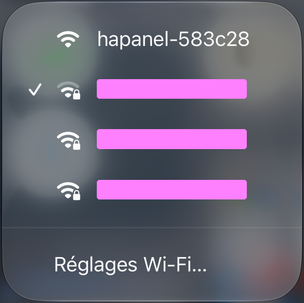
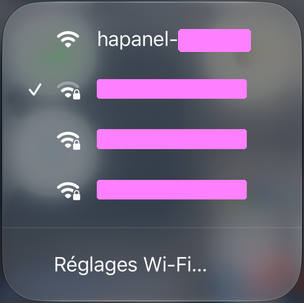
T02 cadre (D052) : doc utilisateur sans element personnel, binaire public seul, francais
- D052 : nettoyage de la doc utilisateur seulement, adoption par le binaire
  public, documentation en francais ; journal de developpement inchange
- Noms reels de modules remplaces par hapanel-1a2b3c ; suffixe masque dans la
  capture 11 d'INSTALLATION.md ; chemin du poste retire de START_HERE.md
- README : le reste de docs/ est le journal d'une installation reelle
- 04 : regle « Documentation publique » ; 00_CONTEXT : 4,3" validee au banc (Q)
- Cahier : partie R (R1, R2), bloque docs/t02-projet-publiable

Changed region(s): [[0.5625, 0.0891, 0.8289, 0.1782]]

diff --git a/docs/CAHIER_DE_TESTS.md b/docs/CAHIER_DE_TESTS.md
@@ -75,6 +75,7 @@ aucun. Chaque ligne se coche **OK** ou **KO** ; en cas de KO, noter ce qui a ét
 | J | Déploiement public (D039) ; guide d'installation (J9, J10, J14) | `feature/poc-deploiement` (fusionnée) ; J9, J10, J14 : `docs/guide-installation` (fusionnée) |
 | L | Mise à jour signalée par la barre d'état et la LED (D045) | `feature/maj-icone` (fusionnée) ; L11 sur la Release `v0.10.0` |
 | M | Adresse IP sur la page À propos | `feature/maj-icone` (fusionnée) |
+| R | Documentation publique sans élément personnel (D052) | `docs/t02-projet-publiable` |
 | 7 novembre 2026 | `9b78597` (S028, USB) | K1, K2, K3 | Écran et couleurs OK (contrôleur ST7789V, sans inversion) ; tactile : x brut décroît de gauche à droite (3605 à 449), y de 419 à 3662. Premier téléversement impossible avec le premier câble USB-C (aucune donnée reçue) ; OK avec un autre câble | Calibrage et `mirror_x` reportés ; K4 sur le binaire suivant |
 | 7 novembre 2026 | `174aa99` (S028, USB) | K4 à K11 | Tout OK ; K5 : glissière Éteint / Chauffage capricieuse au doigt sur dalle résistive, boutons fiables. Mémoire libre 153 Ko, plus grand bloc 96 Ko. Remarque du propriétaire : avoir à configurer le blueprint du message d'accueil en plus de celui du module n'est pas pratique (TODO rang 1) | **Partie K validée**, fusion dans `main` (accord du propriétaire) ; glissière : TODO T04 |
 | 7 novembre 2026 | `745126b` (blueprint, branche) | B10 à B19 | Tout OK : migration, module sans section, même texte sur deux modules, message unique, entité désactivée, météo, plage horaire ; B3 refait (B13) | **Fusion de `feature/accueil-blueprint-module` dans `main`**, accord du propriétaire |
@@ -399,3 +400,12 @@ dans le message de livraison). Q10 et Q11 se font après la publication de la Re
 | Q10 | Après la publication : sur la 4,3" en binaire de la branche, Menu, tuile « Mise à jour », Installer | Installation depuis `manifest-jc4827w543.json`, redémarrage dans la version publiée | — (à la publication) | OK 9 nov. par HA (`v0.11.0`) : installé depuis `manifest-jc4827w543.json`, redémarré en 0.11.0. Depuis l'écran : à la prochaine Release |
 | Q11 | Après la publication : Release | Neuf fichiers (trois par carte) ; dans `manifest-jc4827w543.json`, `"chipFamily": "ESP32-S3"` ; dans les deux autres, `"ESP32"` | — (à la publication) | OK 9 nov. (`v0.11.0`, vérifié par l'agent) : 9 fichiers ; `ESP32-S3` pour la 4,3", `ESP32` pour les deux autres ; résumé de `NOUVEAUTES.md` dans les trois |
 | Q12 | Binaires S024C et S028 de la branche (bloc `esp32` déplacé) : un module de chaque, après la publication | Mise à jour depuis l'écran réussie, fonctions inchangées | — (à la publication) | OK 9 nov. par HA (`v0.11.0`) : cuisine, séjour (S024C), salle de bain (S028), fonctions inchangées ; cuisine : tactile muet après la mise à jour, revenu après un redémarrage (T17). Depuis l'écran : à la prochaine Release |
+
+## R — Documentation publique sans élément personnel (D052)
+
+Sur GitHub, branche `docs/t02-projet-publiable` choisie dans le menu des branches.
+
+| N° | Action | Attendu | Bloque la fusion de | OK / KO |
+|---|---|---|---|---|
+| R1 | Lire le README, puis `INSTALLATION.md`, `CONFIGURATION.md` et `UTILISATION.md` | Aucun nom réel de module (seulement `hapanel-1a2b3c` en exemple), aucune de vos pièces, aucun nom de réseau ; capture 11 d'`INSTALLATION.md` : suffixe du réseau du module masqué | `docs/t02-projet-publiable` | |
+| R2 | README, paragraphe sur le journal de développement | Clair pour un visiteur : il comprend que le reste de `docs/` décrit votre installation à titre d'exemple | `docs/t02-projet-publiable` | |

diff --git a/docs/codex/02_DECISIONS.md b/docs/codex/02_DECISIONS.md
@@ -1282,3 +1282,34 @@ qui cite la précédente.
     des checkpoints laissées telles quelles (archives datées).
 - Conséquences : prochain numéro `T16` ; modèle de checkpoint, G14 et `AGENTS.md`
   citent les sujets par leur numéro.
+
+## D052 — Projet publiable : cadrage (TODO T02)
+
+- Date : 9 novembre 2026 — Statut : choisi par le propriétaire (HAP-R002 :
+  « Q1 - A, Q2 - A, Q3 - Fr »), appliqué sur `docs/t02-projet-publiable`.
+- Contexte : D038 demande de relire la documentation pour en retirer le personnel,
+  et de cadrer l'adoption par d'autres utilisateurs. Inventaire du 9 novembre 2026 :
+  les pages pour l'utilisateur sont presque neutres (restaient les noms réels de
+  deux modules, fin de l'adresse MAC, en exemple, et dans une capture) ; le
+  personnel (pièces, modules, nœud `clim-parents`, réseau de bus, installation de
+  HA, chemin du poste) est dans le journal de développement. Le dépôt est déjà
+  public : l'historique Git garde tout ce qui a été écrit.
+- Décision :
+  - **nettoyage de la documentation pour l'utilisateur seulement** (option A) :
+    noms de modules réels remplacés par `hapanel-1a2b3c`, suffixe masqué dans la
+    capture 11 d'`INSTALLATION.md`, chemin du poste retiré de `START_HERE.md` ; le
+    README présente le reste de `docs/` comme le journal de développement d'une
+    installation réelle ; règle durable dans `04_DEVELOPMENT_RULES.md` ;
+  - le journal de développement reste tel quel ; pas de réécriture de l'historique
+    Git ;
+  - **adoption par le binaire public seulement** (option A) : le guide
+    d'installation (D039, D041) est le seul parcours documenté pour le public ; la
+    compilation reste possible (`secrets.example.yaml`, `05_BUILD_AND_TEST.md`) mais
+    n'a pas de guide pour débutant ;
+  - **documentation en français seulement**.
+- Options écartées : nettoyer aussi le journal de développement (gros travail, gain
+  nul tant que l'historique Git le garde) ; le déplacer dans un dépôt privé (deux
+  sources de vérité) ; guide « je compile moi-même » (à tester sur un poste vierge,
+  `tools/build.ps1` réservé à Windows) ; traduction anglaise (double maintenance).
+  Chacune peut être rouverte par une nouvelle décision.
+- Conséquences : T02 terminé à la fusion ; reste de D038 : page d'installation (T03).

diff --git a/docs/codex/00_CONTEXT.md b/docs/codex/00_CONTEXT.md
@@ -52,7 +52,7 @@ Home Assistant qu'il lit et les actions qu'il déclenche.
 | Alimentation | Bloc secteur externe 1 A validé au banc ; port USB du PC insuffisant (R7) |
 | Montage mural | À définir |
 | Autre carte | ESP32-2432S028 à deux prises USB (2,8", contrôleur ST7789V, tactile résistif XPT2046, rétroéclairage GPIO21) : `packages/hardware_2432s028.yaml`, validée au banc le 7 novembre 2026 (cahier K ; mémoire libre 153 Ko, plus grand bloc 96 Ko) ; binaire public `hapanel_2432s028_public.yaml` (D041), validé en `v0.9.0` le 7 novembre 2026 (cahier K12 à K15) |
-| Carte 4,3" | Guition JC4827W543C_I (ESP32-S3, 4 Mo de flash, 8 Mo de PSRAM, écran NV3041A 480 × 272 en QSPI, tactile GT911, rétroéclairage GPIO1, ni LED ni LDR), brochage validé par AquaLook le 27 août 2026 : `packages/hardware_jc4827w543.yaml`, binaire public `hapanel_jc4827w543_public.yaml`, en portrait provisoire (D049) ; à valider au banc (cahier Q) |
+| Carte 4,3" | Guition JC4827W543C_I (ESP32-S3, 4 Mo de flash, 8 Mo de PSRAM, écran NV3041A 480 × 272 en QSPI, tactile GT911, rétroéclairage GPIO1, ni LED ni LDR), brochage validé par AquaLook le 27 août 2026 : `packages/hardware_jc4827w543.yaml`, binaire public `hapanel_jc4827w543_public.yaml`, en portrait provisoire (D049) ; validée au banc le 9 novembre 2026 (cahier Q1 à Q9), en essai dans la maison depuis 0.11.0 ; pages en paysage : TODO T04 |
 
 ## Environnement de développement
 

diff --git a/docs/CONFIGURATION.md b/docs/CONFIGURATION.md
@@ -35,8 +35,8 @@ Vérifiez que Home Assistant contient déjà les entités que le module afficher
 
 1. Ouvrez Home Assistant, puis **Paramètres › Appareils et services**.
 2. En haut, parmi les appareils découverts, le module apparaît sous le nom
-   **HAPanel** suivi de six caractères, par exemple « HAPanel 583c28
-   (hapanel-583c28) » : cliquez sur **Ajouter**. Si vous avez déjà un appareil
+   **HAPanel** suivi de six caractères, par exemple « HAPanel 1a2b3c
+   (hapanel-1a2b3c) » : cliquez sur **Ajouter**. Si vous avez déjà un appareil
    ESPHome, il peut aussi apparaître en ouvrant **ESPHome**, rubrique
    **Découvertes** (capture ci-dessous).
 
@@ -309,7 +309,7 @@ déclenche plus jamais. Le blueprint
 
 1. **Affichage :** **Outils de développement › Actions**, action
    `esphome.<nom du module>_message_accueil` (par exemple
-   `esphome.hapanel_583c28_message_accueil`), champ `texte` rempli : le message
+   `esphome.hapanel_1a2b3c_message_accueil`), champ `texte` rempli : le message
    s'affiche aussitôt. « Exécuter les actions » de l'automatisation n'envoie pas le
    message : sans déclencheur, elle envoie les valeurs du module.
 2. **Chaîne complète :** régler la période à 5 minutes, laisser les déclencheurs au

diff --git a/docs/technique/hapanel.md b/docs/technique/hapanel.md
@@ -37,7 +37,7 @@ le banc : il n'est jamais flashé sur un module de la maison.
 
 | Substitution | Valeur | Utilisée par | Rôle |
 |---|---|---|---|
-| `node_name` | `hapanel` | `base.yaml` (`esphome.name`) | Nom du nœud ESPHome. ESPHome y ajoute la fin de l'adresse MAC : `hapanel-a85bfc` (D012). |
+| `node_name` | `hapanel` | `base.yaml` (`esphome.name`) | Nom du nœud ESPHome. ESPHome y ajoute la fin de l'adresse MAC : `hapanel-1a2b3c` (D012). |
 | `friendly_name` | `HAPanel` | `base.yaml` | Nom de l'appareil affiché dans Home Assistant. |
 | `version` | `0.0.0-non-injectee` | `base.yaml`, `lvgl.yaml` (page À propos) | Version du logiciel. Remplacée par le contenu du fichier `VERSION`. |
 | `git_sha` | `inconnu` | `base.yaml`, `lvgl.yaml` | Commit compilé. Remplacé par le SHA court de Git, suivi de `+modif` si des fichiers ne sont pas commités. |

diff --git a/docs/codex/04_DEVELOPMENT_RULES.md b/docs/codex/04_DEVELOPMENT_RULES.md
@@ -89,6 +89,18 @@ du C++ au YAML.
 - Pas de `web_server` ni de point d'accès de secours sans décision et ligne
   au registre des risques.
 
+## Documentation publique
+
+- Pages pour l'utilisateur (README, `INSTALLATION.md`, `CONFIGURATION.md`,
+  `UTILISATION.md`, `ARCHITECTURE.md`, `docs/technique/`) : aucun nom réel de
+  module, de pièce, de réseau ni de chemin du poste du propriétaire (D052) ;
+  nom de module d'exemple : `hapanel-1a2b3c`. Captures : masquer aussi le suffixe
+  du nom du module (`09_PIEGES.md`, G9).
+- Le journal de développement (`docs/codex/`, cahier, TODO, checkpoints) peut citer
+  l'installation réelle ; il ne contient jamais de secret, d'adresse IP ni de port
+  COM (G9).
+- Documentation en français seulement (D052).
+
 ## Journaux
 
 - Niveau `INFO` en production, `DEBUG` sur le banc.

diff --git a/docs/technique/base.md b/docs/technique/base.md
@@ -25,7 +25,7 @@ et **aucun accès au réseau** : le Wi-Fi, la clé de l'API et l'OTA sont dans
 |---|---|---|
 | `name` | `${node_name}` | Nom du nœud (`hapanel`). |
 | `friendly_name` | `${friendly_name}` | Nom de l'appareil dans Home Assistant. |
-| `name_add_mac_suffix` | `true` | Ajoute la fin de l'adresse MAC : `hapanel-a85bfc`. Un seul binaire pour tous les modules, chacun avec un nom unique (D012). |
+| `name_add_mac_suffix` | `true` | Ajoute la fin de l'adresse MAC : `hapanel-1a2b3c`. Un seul binaire pour tous les modules, chacun avec un nom unique (D012). |
 | `project.name` | `cnuma.hapanel` | Identité du projet, visible dans Home Assistant et dans les journaux. |
 | `project.version` | `${version}` | Version du fichier `VERSION`, injectée par `tools/build.ps1` (G5). |
 

diff --git a/docs/INSTALLATION.md b/docs/INSTALLATION.md
@@ -164,7 +164,7 @@ Tant qu'il n'a pas de Wi-Fi, le module crée son propre réseau Wi-Fi pendant
 1. Sur le téléphone, ouvrez la liste des réseaux Wi-Fi et choisissez le réseau
    `hapanel-` suivi de six caractères. Il n'a pas de mot de passe.
 
-![Liste des réseaux du téléphone, réseau hapanel-583c28, autres réseaux masqués](images/installation/11_telephone_reseaux.png)
+![Liste des réseaux du téléphone, réseau hapanel- suivi de six caractères masqués, autres réseaux masqués](images/installation/11_telephone_reseaux.png)
 
 2. Une page « Wi-Fi captif » s'ouvre seule (sinon, ouvrez <http://192.168.4.1> dans
    le navigateur du téléphone). Touchez votre réseau dans la liste **WiFi Networks** :

diff --git a/README.md b/README.md
@@ -18,3 +18,8 @@ par carte (D041, D049).
 
 Projet en phase de démarrage : les écrans sont définis pas à pas
 (`docs/TODO.md`).
+
+Les pages ci-dessus sont écrites pour tout utilisateur. Le reste de `docs/`
+(`codex/`, `CAHIER_DE_TESTS.md`, `TODO.md`, `checkpoints/`) est le journal de
+développement d'une installation réelle : il cite ses pièces et ses modules, à
+titre d'exemple seulement (D052).

diff --git a/docs/START_HERE.md b/docs/START_HERE.md
@@ -21,7 +21,7 @@ Point d'entrée officiel de la documentation.
 Le checkpoint donne la branche ; le reste ne change pas d'un chat à l'autre (G14).
 
 ```powershell
-cd C:\Users\Emman\00_DevClaude\HAPanel
+cd <dossier du dépôt cloné>
 git fetch origin
 git checkout <branche du checkpoint>
 git pull origin <branche du checkpoint>
